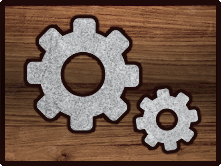
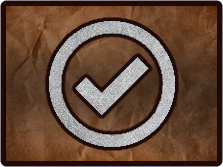
added confirmation box's button images

diff --git a/app/screens/util/confirmation_box.py b/app/screens/util/confirmation_box.py
@@ -15,16 +15,16 @@ class ConfirmationBox(MessageBox):
         button_height = button_width * 0.75
 
         self.__cancel_button = Button(
-            self.screen, self.batch, self.x + self.width * 0.2,
-            self.y + self.height - button_height - self.width * 0.15,
+            self.screen, self.batch, self.x + self.width * 0.27,
+            self.y + self.height - button_height - self.width * 0.18,
             (button_width, button_height),
             (self.__button_images[0][0], self.__button_images[0][1]),
             group = self.__button_group
         )
 
         self.__confirm_button = Button(
-            self.screen, self.batch, self.x + self.width * 0.8 - button_width,
-            self.y + self.height - button_height - self.width * 0.15,
+            self.screen, self.batch, self.x + self.width * 0.73 - button_width,
+            self.y + self.height - button_height - self.width * 0.18,
             (button_width, button_height),
             (self.__button_images[1][0], self.__button_images[1][1]),
             group = self.__button_group

diff --git a/app/screens/home.py b/app/screens/home.py
@@ -206,10 +206,13 @@ class HomeScreen(Screen):
     def on_key_press(self, symbol, modifiers):
         if symbol == key.ESCAPE:
             message = self.__message_box.has_message()
-            message = message or self.__confirmation_box.has_message()
+            confirmation = self.__confirmation_box.has_message()
             
-            if not message:
+            if not (message or confirmation):
                 self.__set_dialog_box_message(self.__confirmation_box, "Você realmente deseja sair?")
+            if message:
+                self.__message_box.delete_message()
+                
         return True
 
     def on_mouse_motion(self, *args):
